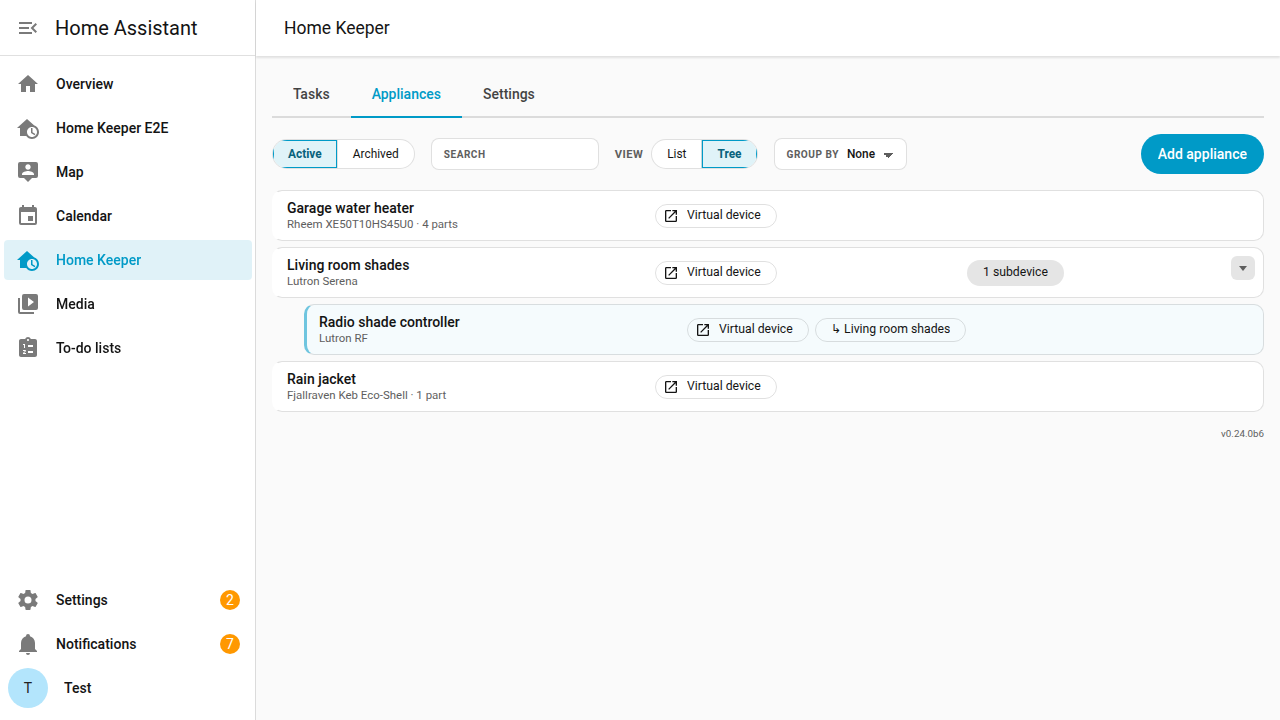
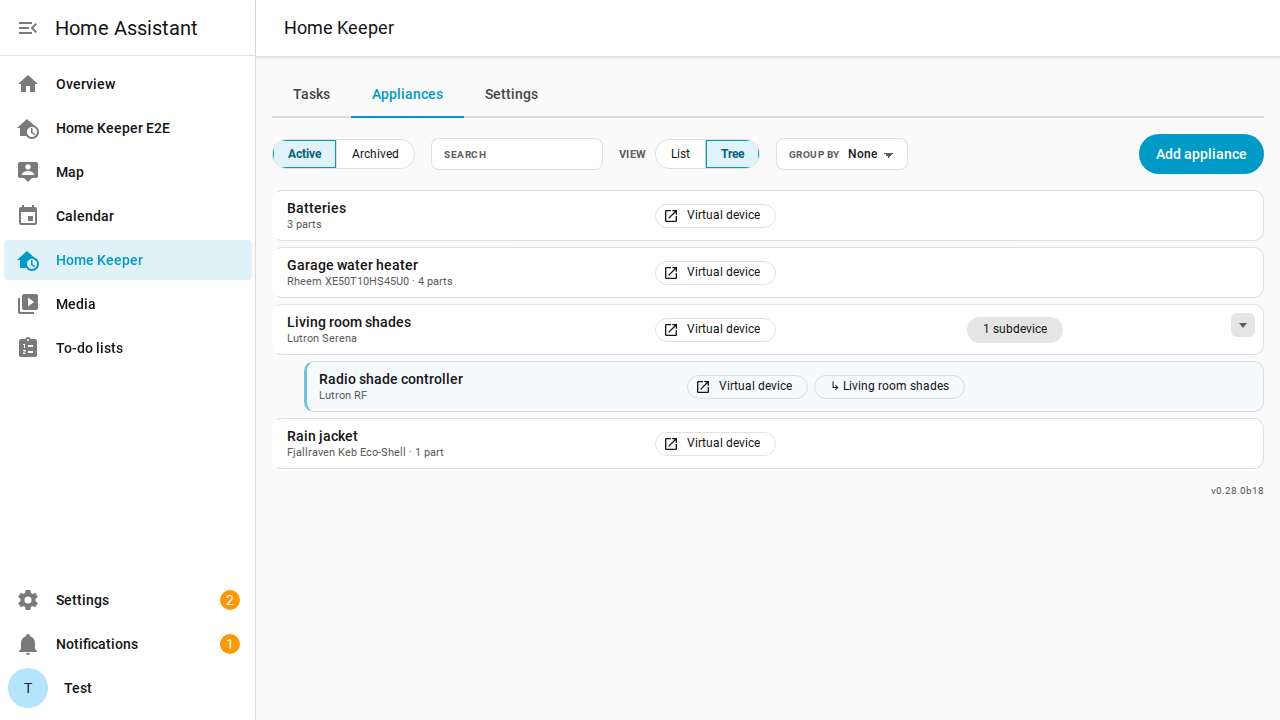
Capture the tree toggle, badge ink and missing-profile card on desktop and phone
Claude-Session: https://claude.ai/code/session_01PRwdoZbZKUNC3vbJkYwXCo

diff --git a/tests/e2e/screenshots-card.capture.ts b/tests/e2e/screenshots-card.capture.ts
@@ -206,6 +206,18 @@ test('capture Home Keeper card screenshots', async ({ page }) => {
   await expect(labelCard).toBeHidden();
   await page.screenshot({ path: `${OUT}/card-hide-empty.png`, fullPage: true });
 
+  // 5c. A card whose profile was deleted shows a warning, not an empty list, and
+  // hide_when_empty does not hide it (F05-4).
+  await labelCard.evaluate((el: ConfigurableCard) =>
+    el.setConfig({
+      type: 'custom:home-keeper-card',
+      profile: 'deleted-profile',
+      hide_when_empty: true,
+    }),
+  );
+  await expect(labelCard.locator('ha-alert[alert-type="warning"]')).toBeVisible();
+  await shotCard(page, labelCard, `${OUT}/card-profile-missing.png`);
+
   // 6. Truncated list ("+N more" — previously an untranslated template literal).
   // Close the add form from step 4, then reconfigure the default card to a small
   // max_items so the seeded task set (well over a dozen) overflows.
@@ -274,4 +286,15 @@ test('capture Home Keeper card screenshots', async ({ page }) => {
   // The form is taller than a phone screen, so shoot the form element itself: the
   // element shot scrolls and stitches, and it ends at Create and Cancel.
   await mobileForm.screenshot({ path: `${OUT}/card-mobile-add-form.png` });
+
+  // The deleted-profile warning on a phone (F05-4).
+  await mobileForm.locator('ha-button', { hasText: 'Cancel' }).click();
+  await mobileCard.evaluate((el: { setConfig: (c: Record<string, unknown>) => void }) =>
+    el.setConfig({ type: 'custom:home-keeper-card', profile: 'deleted-profile' }),
+  );
+  await expect(mobileCard.locator('ha-alert[alert-type="warning"]')).toBeVisible();
+  await mobileCard
+    .locator('ha-card')
+    .first()
+    .screenshot({ path: `${OUT}/card-mobile-profile-missing.png` });
 });

diff --git a/tests/e2e/screenshots.capture.ts b/tests/e2e/screenshots.capture.ts
@@ -2238,6 +2238,15 @@ test('capture Home Keeper panel + usage screenshots', async ({ page }) => {
   await page.waitForTimeout(600);
   await page.screenshot({ path: `${OUT}/53-panel-mobile-appliances.png` });
 
+  // 5d. The tree view on a phone. The expand control is a real button with a
+  // tap-size ring here (X11-4).
+  await panel.locator('.hk-seg[data-seg="assetView"] .hk-seg-btn[data-seg-val="tree"]').click();
+  await expect(panel.locator('.hk-tree-child').first()).toBeVisible();
+  await page.waitForTimeout(600);
+  await page.screenshot({ path: `${OUT}/5d-panel-mobile-appliances-tree.png` });
+  await panel.locator('.hk-seg[data-seg="assetView"] .hk-seg-btn[data-seg-val="flat"]').click();
+  await expect(panel.locator('.hk-tree-child')).toHaveCount(0);
+
   // 57d. And on the appliance list, where the row above it holds two segments
   // rather than one.
   await panel.locator('.hk-search-input').fill('water');
@@ -2316,6 +2325,10 @@ test('capture Home Keeper panel + usage screenshots', async ({ page }) => {
   await expect(panel.locator('.hk-index-row').first()).toBeVisible();
   await panel.locator('.hk-index-row[data-section="notifications"]').click();
   await expect(panel.locator('#hk-notifications')).toBeVisible();
+  // 52c. The notification list on a phone, with each badge glyph in the ink that
+  // reads on its colour (X11-6).
+  await page.waitForTimeout(600);
+  await page.screenshot({ path: `${OUT}/52c-panel-mobile-notification-icons.png` });
   await panel.locator('#hk-notifications .hk-item-header').first().click();
   const scopeLine = panel.locator('#hk-notifications .hk-notify-scope').first();
   const triggerGroup = panel.locator('#hk-notifications .hk-indent').first();
